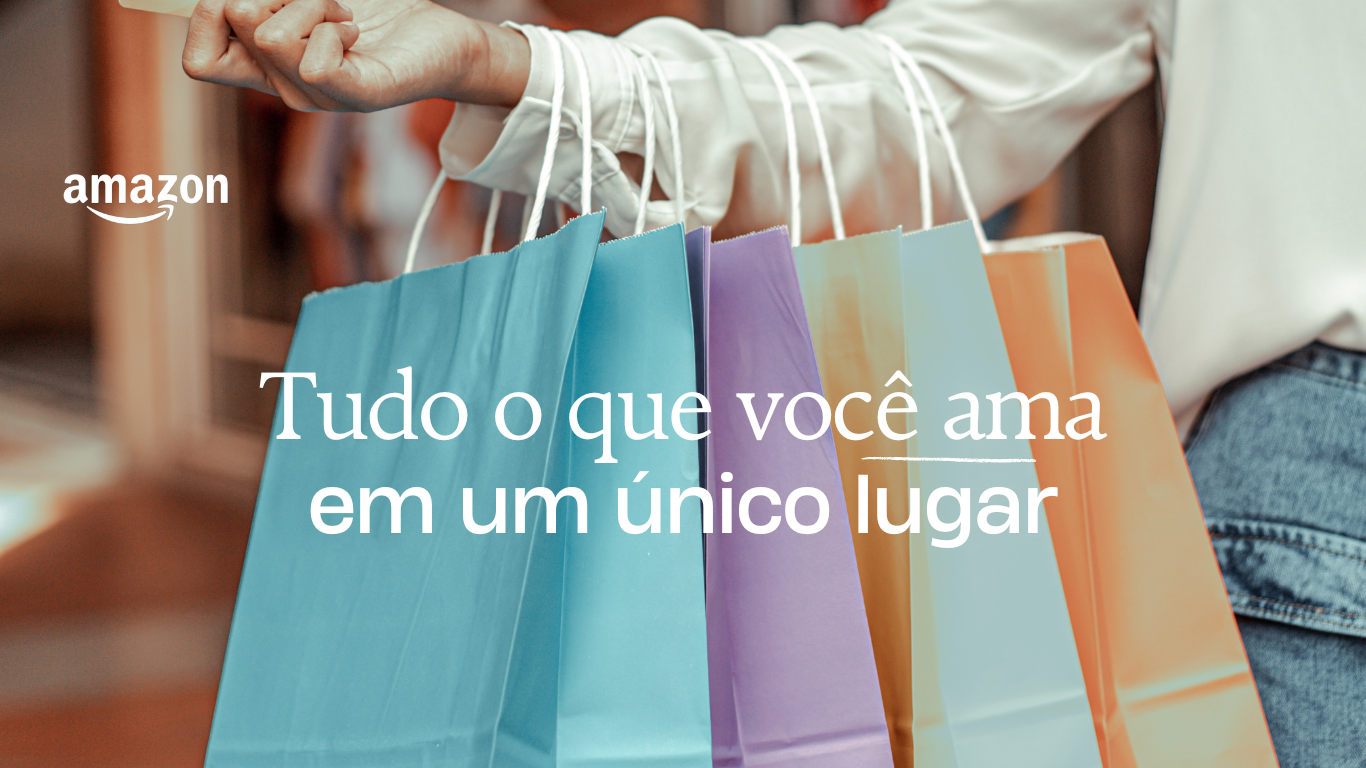
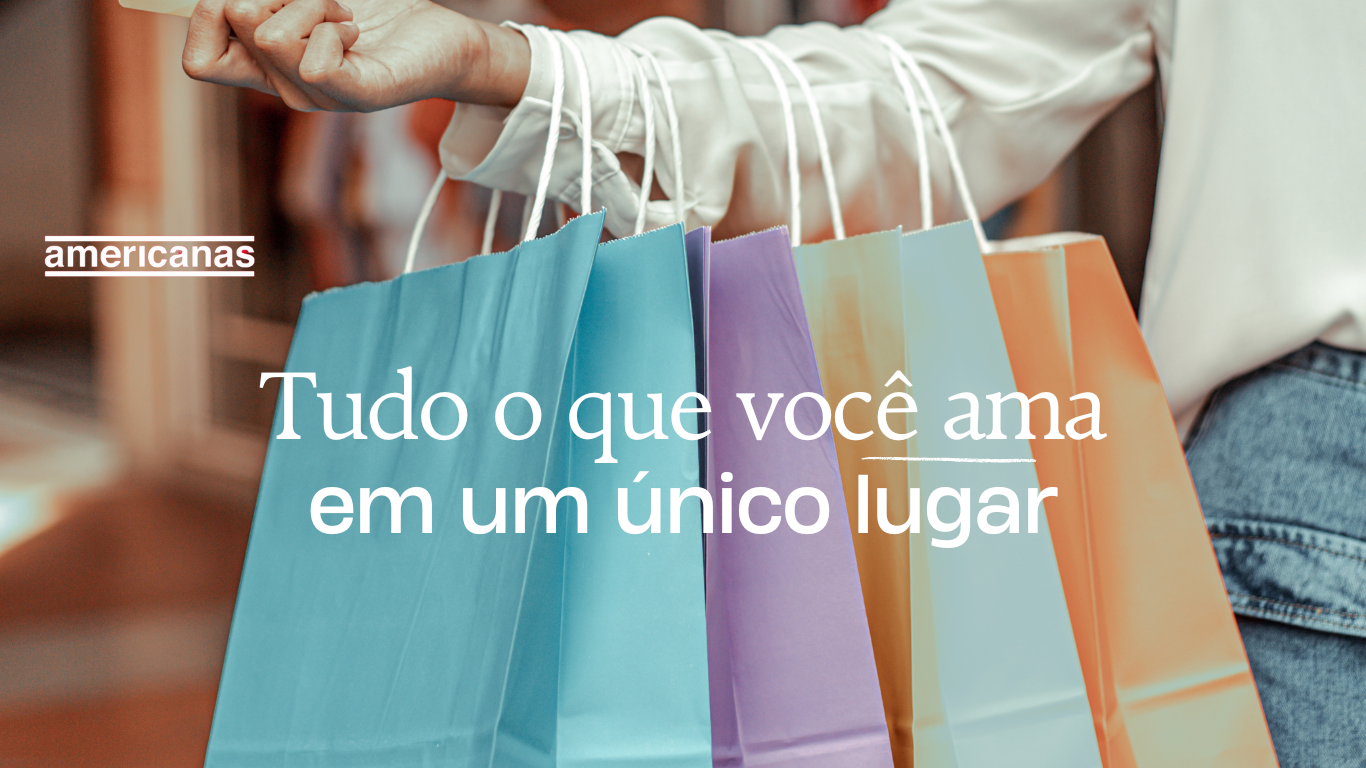
página de produtos

Changed region(s): [[0.0307, 0.2188, 0.1845, 0.375]]

diff --git a/css/style.css b/css/style.css
@@ -11,7 +11,7 @@ body {
     justify-content: space-between;
     align-items: center;
     padding: 10px 20px;
-    background-color: #232f3e;
+    background-color: #b22222;
     color: white;
 }
 
@@ -26,12 +26,6 @@ body {
     border-radius: 5px;
 }
 
-.profile-icon img {
-    border-radius: 50%;
-    width: 40px;
-    height: 40px;
-}
-
 .hamburger-menu button {
     background: none;
     border: none;
@@ -41,9 +35,18 @@ body {
 }
 
 /* Estilos para o texto e imagem */
+.welcome-container {
+    display: flex;
+    flex-direction: column;
+    align-items: center;
+    justify-content: center;
+    padding: 20px;
+    animation: slideUp 1s ease-out;
+}
+
 .welcome-section {
     text-align: center;
-    padding: 50px 20px;
+    padding: 20px 0;
 }
 
 .welcome-section h1 {
@@ -60,11 +63,10 @@ body {
     display: flex;
     justify-content: center;
     margin-top: 20px;
-    margin-bottom: 20px;
 }
 
 .image-section img {
-    max-width: 60%;
+    max-width: 80%;
     border-radius: 10px;
 }
 
@@ -74,7 +76,7 @@ body {
     position: absolute;
     top: 70px;
     right: 20px;
-    background-color: #232f3e;
+    background-color: #b22222;
     border-radius: 5px;
     padding: 10px;
 }
@@ -101,4 +103,154 @@ body {
 
 .hamburger-menu-list ul li a:hover {
     text-decoration: underline;
+}
+
+/* Animação para a página ao carregar */
+@keyframes slideUp {
+    0% {
+        opacity: 0;
+        transform: translateY(50px);
+    }
+    100% {
+        opacity: 1;
+        transform: translateY(0);
+    }
+}
+
+/* Estilos para o footer */
+.footer {
+    background-color: #b22222;
+    color: white;
+    padding: 20px 0;
+    text-align: center;
+    margin-top: 40px;
+}
+
+.footer-container {
+    display: flex;
+    flex-direction: column;
+    align-items: center;
+    justify-content: center;
+    max-width: 1200px;
+    margin: 0 auto;
+}
+
+.footer-links {
+    display: flex;
+    justify-content: center;
+    gap: 20px;
+    margin-bottom: 10px;
+}
+
+.footer-links a {
+    color: white;
+    text-decoration: none;
+    font-size: 16px;
+    transition: color 0.3s ease;
+}
+
+.footer-links a:hover {
+    color: #ffcccb;
+}
+
+.footer-social {
+    display: flex;
+    align-items: center;
+    gap: 15px;
+    margin-bottom: 10px;
+}
+
+.footer-social p {
+    font-size: 16px;
+    margin: 0;
+}
+
+.footer-social img {
+    width: 24px;
+    height: 24px;
+    transition: transform 0.3s ease;
+}
+
+.footer-social img:hover {
+    transform: scale(1.1);
+}
+
+.footer-info {
+    font-size: 14px;
+    opacity: 0.8;
+}
+
+@keyframes fadeIn {
+    from {
+        opacity: 0;
+    }
+    to {
+        opacity: 1;
+    }
+}
+
+.product-container {
+    max-width: 1200px;
+    margin: 20px auto;
+    padding: 20px;
+    text-align: center;
+}
+
+.product-list {
+    display: flex;
+    flex-wrap: wrap;
+    justify-content: center;
+    gap: 20px;
+}
+
+.product-card {
+    background: white;
+    padding: 20px;
+    border-radius: 10px;
+    box-shadow: 0 4px 8px rgba(0, 0, 0, 0.2);
+    width: 250px;
+    text-align: center;
+    transition: transform 0.3s ease-in-out;
+}
+
+.product-card:hover {
+    transform: translateY(-10px);
+}
+
+.product-card img {
+    height: 170px;
+    width: auto;
+    border-radius: 5px;
+}
+
+.product-card h2 {
+    font-size: 20px;
+    color: #333;
+}
+
+.product-card p {
+    font-size: 14px;
+    color: #666;
+}
+
+.product-card span {
+    font-size: 18px;
+    font-weight: bold;
+    color: #b22222;
+    display: block;
+    margin: 10px 0;
+}
+
+.product-card button {
+    background-color: #b22222;
+    color: white;
+    border: none;
+    padding: 10px;
+    border-radius: 5px;
+    cursor: pointer;
+    font-size: 16px;
+}
+
+.product-card button:hover {
+    background-color: #8b1a1a;
 }

diff --git a/index.html b/index.html
@@ -3,25 +3,20 @@
 <head>
     <meta charset="UTF-8">
     <meta name="viewport" content="width=device-width, initial-scale=1.0">
-    <title>Amazon</title>
+    <title>Americanas - Sua Loja de Confiança</title>
     <link rel="stylesheet" href="css/style.css">
+    <script src="js/script.js" defer></script>
 </head>
 <body>
     <header class="header">
         <div class="logo">
-            <a href="#" class="logo-link">
-                <img src="img/amazon.png" alt="Logo">
+            <a href="C:/Users/vitor/OneDrive/Documents/GitHub/project1-2025a-iamvitoria/index.html#" class="logo-link">
+                <img src="img/americanas.png" alt="Logo Americanas">
             </a>
         </div>
 
         <div class="search-bar">
             <input type="text" placeholder="O que você está procurando?">
-        </div>
-
-        <div class="profile-icon">
-            <a href="#" class="profile-link">
-                <img src="img/user.png" alt="Ícone de perfil">
-            </a>
         </div>
 
         <div class="hamburger-menu">
@@ -31,30 +26,19 @@
 
     <div class="welcome-container">
         <div class="welcome-section">
-            <h1>Bem-vindo à nossa loja!</h1>
-            <p>Encontre os melhores produtos e aproveite as ofertas exclusivas.</p>
+            <h1>Bem-Vindo à Americanas!</h1>
+            <p>Os melhores produtos e ofertas esperam por você.</p>
         </div>
 
         <div class="image-section">
-            <img src="img/banner.png" alt="Imagem bonita">
+            <img src="img/banner.png" alt="Promoções Exclusivas">
         </div>
     </div>
 
-    <div id="hamburger-menu" class="hamburger-menu-list">
-        <ul>
-            <li><a href="#">Home</a></li>
-            <li><a href="#">Produtos</a></li>
-            <li><a href="#">Preços</a></li>
-            <li><a href="#">Sobre</a></li>
-            <li><a href="#">Entrar</a></li>
-        </ul>
-    </div>
-
-    <script>
-        function toggleMenu() {
-            const menu = document.getElementById("hamburger-menu");
-            menu.classList.toggle("show");
-        }
-    </script>
+    <footer class="footer">
+        <div class="footer-container">
+            <p>© Todos os direitos reservados</p>
+        </div>
+    </footer>
 </body>
 </html>

diff --git a/pages/products.html b/pages/products.html
@@ -1,0 +1,58 @@
+<!DOCTYPE html>
+<html lang="pt-BR">
+<head>
+    <meta charset="UTF-8">
+    <meta name="viewport" content="width=device-width, initial-scale=1.0">
+    <title>Produtos - Americanas</title>
+    <link rel="stylesheet" href="../css/style.css">
+    <script src="../js/script.js" defer></script>
+</head>
+<body>
+    <header class="header">
+        <div class="logo">
+            <a href="C:/Users/vitor/OneDrive/Documents/GitHub/project1-2025a-iamvitoria/index.html" class="logo-link">
+                <img src="../img/americanas.png" alt="Logo Americanas">
+            </a>
+        </div>
+        <div class="search-bar">
+            <input type="text" placeholder="O que você está procurando?">
+        </div>
+        <div class="hamburger-menu">
+            <button class="hamburger-button" onclick="toggleMenu()">☰</button>
+        </div>
+    </header>
+
+    <main class="product-container">
+        <h1>Nossos Produtos</h1>
+        <div class="product-list">
+            <div class="product-card">
+                <img src="../img/tablet.jpg" alt="Produto 1">
+                <h2>iPad</h2>
+                <p>iPad Air 2020</p>
+                <span>R$ 4.359,99</span>
+                <button>Comprar</button>
+            </div>
+            <div class="product-card">
+                <img src="../img/televisao.jpg" alt="Produto 2">
+                <h2>Televisão</h2>
+                <p>Televisão Samsung 32 polegadas.</p>
+                <span>R$ 2.599,99</span>
+                <button>Comprar</button>
+            </div>
+            <div class="product-card">
+                <img src="../img/celular.jpg" alt="Produto 3">
+                <h2>iPhone</h2>
+                <p>iPhone X.</p>
+                <span>R$ 4.099,99</span>
+                <button>Comprar</button>
+            </div>
+        </div>
+    </main>
+
+    <footer class="footer">
+        <div class="footer-container">
+            <p>© Todos os direitos reservados</p>
+        </div>
+    </footer>
+</body>
+</html>

diff --git a/js/script.js b/js/script.js
@@ -1,0 +1,27 @@
+document.addEventListener("DOMContentLoaded", function() {
+    const menuButton = document.querySelector(".hamburger-button");
+    const menu = document.createElement("div");
+    menu.classList.add("hamburger-menu-list");
+    
+    menu.innerHTML = `
+        <ul>
+            <li><a href="C:/Users/vitor/OneDrive/Documents/GitHub/project1-2025a-iamvitoria/index.html">Home</a></li>
+            <li><a href="C:/Users/vitor/OneDrive/Documents/GitHub/project1-2025a-iamvitoria/pages/products.html">Produtos</a></li>
+            <li><a href="#">Sobre</a></li>
+            <li><a href="#">Entrar</a></li>
+        </ul>
+    `;
+    
+    document.body.appendChild(menu);
+    
+    menuButton.addEventListener("click", function() {
+        menu.classList.toggle("show");
+    });
+
+    document.addEventListener("click", function(event) {
+        if (!menu.contains(event.target) && !menuButton.contains(event.target)) {
+            menu.classList.remove("show");
+        }
+    });
+
+});
